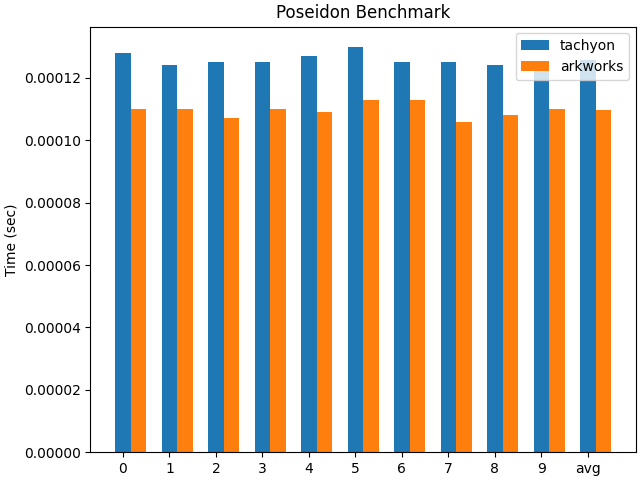
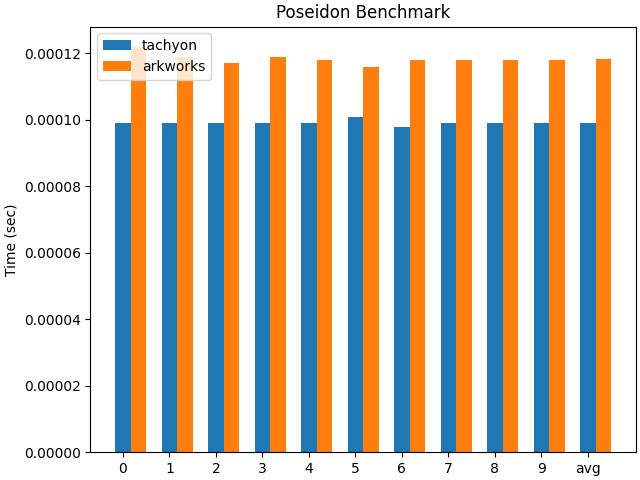
docs(benchmark): update the result of the poseidon benchmark

diff --git a/benchmark/poseidon/README.md b/benchmark/poseidon/README.md
@@ -7,24 +7,50 @@ CPU Caches:
   L1 Instruction 32 KiB (x16)
   L2 Unified 2048 KiB (x16)
   L3 Unified 36864 KiB (x1)
+
+Run on Apple M3 Pro (12 X 4050 MHz)
+CPU Caches:
+  L1 Data 64 KiB (x12)
+  L1 Instruction 128 KiB (x12)
+  L2 Unified 4096 KiB (x12)
 ```
 
 ```shell
 bazel run -c opt --//:has_openmp --//:has_rtti --//:has_matplotlib //benchmark/poseidon:poseidon_benchmark
 ```
 
-| Repetition | Tachyon  | Arkworks      |
-| :--------: | -------- | ------------- |
-|     0      | 0.000124 | **0.000114**  |
-|     1      | 0.000125 | **0.00011**   |
-|     2      | 0.000124 | **0.00011**   |
-|     3      | 0.000124 | **0.000106**  |
-|     4      | 0.000124 | **0.00011**   |
-|     5      | 0.000124 | **0.000109**  |
-|     6      | 0.000125 | **0.000108**  |
-|     7      | 0.000123 | **0.00011**   |
-|     8      | 0.000123 | **0.000109**  |
-|     9      | 0.000124 | **0.000106**  |
-|    avg     | 0.000124 | **0.0001092** |
+## On Intel i9-13900K
+
+| Repetition | Tachyon      | Arkworks  |
+| :--------: | ------------ | --------- |
+|     0      | **9.9e-05**  | 0.000122  |
+|     1      | **9.9e-05**  | 0.000119  |
+|     2      | **9.9e-05**  | 0.000117  |
+|     3      | **9.9e-05**  | 0.000119  |
+|     4      | **9.9e-05**  | 0.000118  |
+|     5      | **0.000101** | 0.000116  |
+|     6      | **9.8e-05**  | 0.000118  |
+|     7      | **9.9e-05**  | 0.000118  |
+|     8      | **9.9e-05**  | 0.000118  |
+|     9      | **9.9e-05**  | 0.000118  |
+|    avg     | **9.91e-05** | 0.0001183 |
 
 ![image](/benchmark/poseidon/Poseidon%20Benchmark.png)
+
+## On Mac M3 Pro
+
+| Repetition | Tachyon       | Arkworks  |
+| :--------: | ------------- | --------- |
+|     0      | **0.000112**  | 0.000131  |
+|     1      | **0.000118**  | 0.000125  |
+|     2      | **0.000111**  | 0.000121  |
+|     3      | **0.000103**  | 0.000121  |
+|     4      | **0.000104**  | 0.00012   |
+|     5      | **0.000103**  | 0.000117  |
+|     6      | **0.000103**  | 0.000118  |
+|     7      | **0.000104**  | 0.000117  |
+|     8      | **0.0001**    | 0.000118  |
+|     9      | **0.000113**  | 0.000118  |
+|    avg     | **0.0001071** | 0.0001206 |
+
+![image](/benchmark/poseidon/Poseidon%20Benchmark%20MacM3.png)
